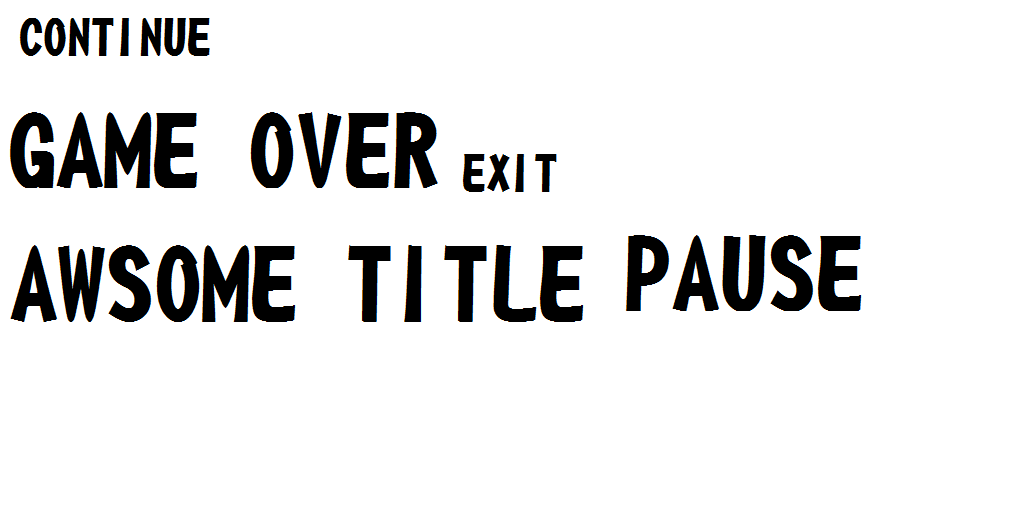
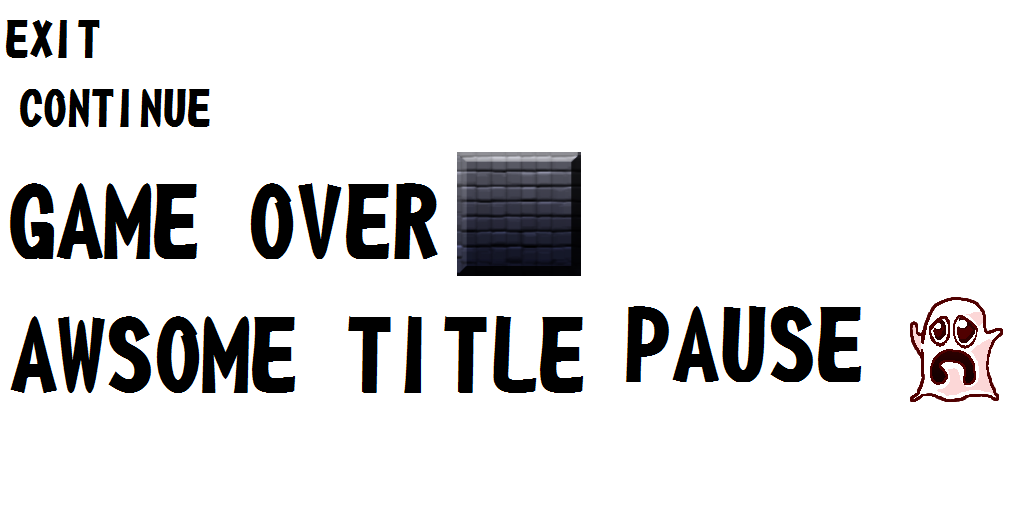
Floor

Changed region(s): [[0.0, 0.1562, 0.8438, 0.7812], [0.875, 0.5625, 1.0, 0.7812], [0.0, 0.0312, 0.2188, 0.125]]

diff --git a/core/src/com/ggj16/game/view/Floor.java b/core/src/com/ggj16/game/view/Floor.java
@@ -1,0 +1,72 @@
+package com.ggj16.game.view;
+
+import com.badlogic.gdx.Gdx;
+import com.badlogic.gdx.graphics.g2d.Batch;
+import com.badlogic.gdx.graphics.g2d.Sprite;
+import com.badlogic.gdx.graphics.g2d.TextureRegion;
+import com.ggj16.game.data.ImageCache;
+
+/**
+ * Created by st on 1/30/16.
+ */
+public class Floor {
+
+    private static final String TEXTURE_FLOOR = "floor";
+    private static final String TEXTURE_PIT = "pit";
+
+    private static final float BLOCKED = -1;
+    private static final float INVISIBLE = 0;
+    private static final float VISIBLE = 1;
+
+    private float[][] tiles;
+
+    private int width, height;
+    private int tileWidth, tileHeight;
+    private TextureRegion textureFloor, texturePit, tetureGlow;
+
+    public Floor(int width, int height) {
+        this.width = width;
+        this.height = height;
+        tiles = new float[height + 2][width + 2];
+
+        textureFloor = ImageCache.getTexture(TEXTURE_FLOOR);
+        texturePit = ImageCache.getTexture(TEXTURE_PIT);
+        tileWidth = textureFloor.getRegionWidth();
+        tileHeight = textureFloor.getRegionHeight();
+
+        for (int i = 0; i < height; i++) {
+            for (int j = 0; j < width; j++) {
+                tiles[i][j] = i == 0 || j == 0 || i == height - 1 || j == width - 1 ? INVISIBLE : VISIBLE;
+            }
+        }
+    }
+
+    public void draw(Batch batch, int offsetX, int offsetY, int screenWidth, int screenHeight) {
+        int x = offsetX / tileWidth;
+        int y = offsetY / tileHeight;
+        offsetX = offsetX % tileWidth - tileWidth;
+        offsetY = offsetY % tileHeight - tileHeight;
+
+        for (int i = offsetY; i <= screenHeight; i += tileHeight) {
+            for (int j = offsetY; j <= screenWidth; j += tileWidth) {
+                batch.draw(textureFloor, j, i, tileWidth, tileHeight);
+            }
+        }
+    }
+
+    public int getWidthInPixels() {
+        return width * tileWidth;
+    }
+
+    public int getWidthInTiles() {
+        return width;
+    }
+
+    public int getHeightInPixels() {
+        return height * tileHeight;
+    }
+
+    public int getHeightInTiles() {
+        return height;
+    }
+}

diff --git a/core/src/com/ggj16/game/view/Player.java b/core/src/com/ggj16/game/view/Player.java
@@ -1,0 +1,78 @@
+package com.ggj16.game.view;
+
+import com.badlogic.gdx.graphics.g2d.Animation;
+import com.badlogic.gdx.graphics.g2d.Batch;
+import com.badlogic.gdx.graphics.g2d.TextureRegion;
+import com.ggj16.game.data.ImageCache;
+
+/**
+ * Created by st on 1/30/16.
+ */
+public class Player {
+
+    enum State {
+        STAND("ghost", 1, 0);
+
+        private boolean animated;
+        private Animation animation;
+        private TextureRegion region;
+
+        State(String texture, int count, float duration) {
+            if (count > 1) {
+                animated = true;
+                animation = new Animation(duration, ImageCache.getFrames(texture, 1, count));
+            } else {
+                region = ImageCache.getTexture(texture);
+            }
+        }
+
+        public TextureRegion getFrame(float stateTime) {
+            if (animated) {
+                return animation.getKeyFrame(stateTime, true);
+            } else {
+                return region;
+            }
+        }
+    }
+
+    private int x, y;
+    private State state;
+    private float stateTime;
+
+    public int getX() {
+        return x;
+    }
+
+    public int getY() {
+        return y;
+    }
+
+    public void setX(int x) {
+        this.x = x;
+    }
+
+    public void setY(int y) {
+        this.y = y;
+    }
+
+    public void draw(Batch batch, float delta) {
+        updateState(delta);
+        TextureRegion region = getStateFrame();
+        batch.draw(region, x, y, region.getRegionWidth(), region.getRegionHeight());
+    }
+
+    private void setState(State state) {
+        if (this.state != state) {
+            this.state = state;
+            stateTime = 0;
+        }
+    }
+
+    private void updateState(float delta) {
+        stateTime += delta;
+    }
+
+    private TextureRegion getStateFrame() {
+        return state.getFrame(stateTime);
+    }
+}

diff --git a/core/src/com/ggj16/game/screen/GameScreen.java b/core/src/com/ggj16/game/screen/GameScreen.java
@@ -12,6 +12,7 @@ import com.ggj16.game.GGJGame;
 import com.ggj16.game.processor.InputProcessor;
 import com.ggj16.game.processor.ViewProcessor;
 import com.ggj16.game.state.GameStates;
+import com.ggj16.game.view.Floor;
 
 /**
  * Created by kettricken on 30.01.2016.
@@ -24,6 +25,8 @@ public class GameScreen extends BaseScreen implements Telegraph {
 
     float delay = 0; // delete after the real condition of game over is set
 
+    private Floor floor;
+
     public GameScreen(GGJGame game) {
         super(game);
         stage = new Stage(getViewport());
@@ -31,6 +34,8 @@ public class GameScreen extends BaseScreen implements Telegraph {
 
         sm = new DefaultStateMachine(this);
         sm.setInitialState(GameStates.GAME);
+
+        floor = new Floor(16, 10);
     }
 
     @Override
@@ -53,10 +58,14 @@ public class GameScreen extends BaseScreen implements Telegraph {
     @Override
     public void render(float delta) {
         super.render(delta);
-        Gdx.gl.glClearColor( 0, 0, 0, 1 );
+        Gdx.gl.glClearColor(0, 0, 0, 1);
         Gdx.gl.glClear( GL20.GL_COLOR_BUFFER_BIT | GL20.GL_DEPTH_BUFFER_BIT );
 
         sm.update();
+
+        batch().begin();
+        floor.draw(batch(), 0, 0, (int) getWorldWidth(), (int) getWorldHeight());
+        batch().end();
 
         stage.act(delta);
         stage.draw();
